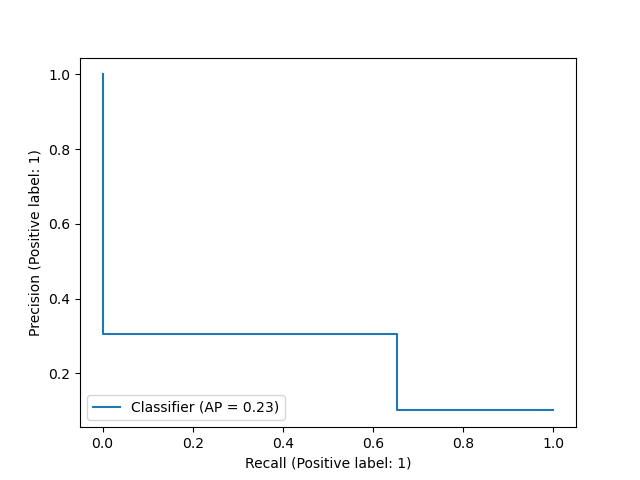
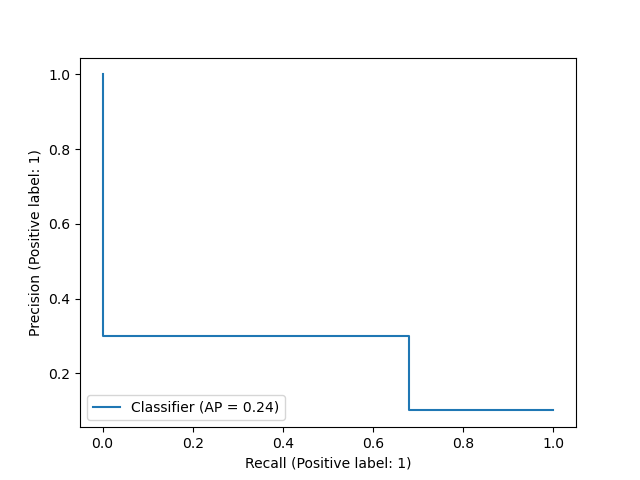
Corrected som labeling

Changed region(s): [[0.1562, 0.6875, 0.6562, 0.7188], [0.4062, 0.8438, 0.4375, 0.875]]

diff --git a/src/graph_neural_nets.py b/src/graph_neural_nets.py
@@ -3,29 +3,47 @@ import torch.nn.functional as F
 from torch.nn import Sequential, Linear, BatchNorm1d, Dropout,LeakyReLU, AvgPool1d
 from torch_geometric.nn import GINEConv, GATConv
 
-def train(model, loader, lr, weight_decay, device):
+# def train(model, loader, lr, weight_decay, device):
+#     model.train()
+#     optimizer = torch.optim.Adam(model.parameters(), lr=lr, weight_decay=weight_decay)
+#     criterion = torch.nn.CrossEntropyLoss()
+#     loss = 0
+#     total_num_instances = 0
+#     for data in loader:
+#         data = data.to(device)
+#         num_subsamplings = data.sampling_mask.shape[1]
+#         for i in range(num_subsamplings):
+#             _, out = model(data.x, data.edge_index, data.edge_attr)  # Perform a forward pass
+#             batch_loss = criterion( out[data.sampling_mask[:,i] == 1], 
+#                                     data.y[data.sampling_mask[:,i] == 1])  # Compute loss function
+#             loss += batch_loss * len(data.batch)
+#             total_num_instances += len(data.batch)
+#             optimizer.zero_grad()  # Clear gradients
+#             batch_loss.backward()  # Derive gradients
+#             optimizer.step()  # Update parameters based on gradients
+#     loss /= total_num_instances 
+#     return loss
+
+def train(model, loader, class_weights, lr, weight_decay, device):
     model.train()
     optimizer = torch.optim.Adam(model.parameters(), lr=lr, weight_decay=weight_decay)
-    criterion = torch.nn.CrossEntropyLoss()
+    criterion = torch.nn.CrossEntropyLoss(weight=torch.Tensor(class_weights).to(device))
     loss = 0
     total_num_instances = 0
     for data in loader:
         data = data.to(device)
-        num_subsamplings = data.sampling_mask.shape[1]
-        for i in range(num_subsamplings):
-            _, out = model(data.x, data.edge_index, data.edge_attr)  # Perform a forward pass
-            batch_loss = criterion( out[data.sampling_mask[:,i] == 1], 
-                                    data.y[data.sampling_mask[:,i] == 1])  # Compute loss function
-            loss += batch_loss * len(data.batch)
-            total_num_instances += len(data.batch)
-            optimizer.zero_grad()  # Clear gradients
-            batch_loss.backward()  # Derive gradients
-            optimizer.step()  # Update parameters based on gradients
+        _, out = model(data.x, data.edge_index, data.edge_attr)  # Perform a forward pass
+        batch_loss = criterion(out, data.y.T.long())  # Compute loss function
+        loss += batch_loss * len(data.batch)
+        total_num_instances += len(data.batch)
+        optimizer.zero_grad()  # Clear gradients
+        batch_loss.backward()  # Derive gradients
+        optimizer.step()  # Update parameters based on gradients
     loss /= total_num_instances 
     return loss
 
 @torch.no_grad()
-def test(model, loader, class_weights, device):
+def test(model, loader, class_weights, device, threshold):
     model.eval()
     criterion = torch.nn.CrossEntropyLoss(weight=torch.Tensor(class_weights).to(device))
     loss = 0
@@ -34,11 +52,12 @@ def test(model, loader, class_weights, device):
     true_labels = []
     for data in loader:
         data = data.to(device)
-        _, out = model(data.x, data.edge_index, data.edge_attr)  # Perform a forward pass
-        batch_loss = criterion(out, data.y.T.long())  # Compute loss function
+        _, out = model(data.x, data.edge_index, data.edge_attr)
+        batch_loss = criterion(out, data.y.T.long())
         loss += batch_loss * len(data.batch)
         total_num_instances += len(data.batch)
-        predictions.append(out.argmax(dim=1))   # Store the class with the highest probability for each data point
+        #predictions.append(out.argmax(dim=1))
+        predictions.append((out[:,1] > threshold).int())
         true_labels.append(data.y)
     pred, true = torch.cat(predictions, dim=0).cpu().numpy(), torch.cat(true_labels, dim=0).cpu().numpy()
     loss /= total_num_instances

diff --git a/som_gnn.py b/som_gnn.py
@@ -38,7 +38,7 @@ def main():
 
     # Compute homophily
     loader = DataLoader(dataset, batch_size=len(dataset))
-    for data in loader: print(homophily(data.edge_index, data.y))
+    for data in loader: print(f'Homophily: {homophily(data.edge_index, data.y)}')
 
     # Training/Test Split
     train_val_dataset, test_dataset = train_test_split(dataset, test_size=(1/10), random_state=42, shuffle=True)
@@ -58,7 +58,7 @@ def main():
     for _ in range(k):
 
         # Initialize model
-        model = GIN(in_dim=dataset.num_features, h_dim=16, out_dim=dataset.num_classes, edge_dim=dataset.num_edge_features).to(device)
+        model = GIN(in_dim=dataset.num_features, h_dim=64, out_dim=dataset.num_classes, edge_dim=dataset.num_edge_features).to(device)
         #model = GAT(in_dim=dataset.num_features, h_dim=16, out_dim=dataset.num_classes, num_heads=4).to(device)
 
         # Training/Validation Split
@@ -70,10 +70,10 @@ def main():
         train_loader = DataLoader(train_dataset, batch_size=64, shuffle=True)
         val_loader = DataLoader(val_dataset, batch_size=64, shuffle=True)
 
-        # Compute class weights of the validation set (used for computing validation loss):
+        # Compute class weights of the training set:
         class_weights = 0
         total_num_instances = 0
-        for data in val_loader:
+        for data in train_loader:
             class_weights += compute_class_weight(class_weight='balanced', classes=np.unique(data.y), y=np.array(data.y)) * len(data.y)
             total_num_instances += len(data.y)
         class_weights /= total_num_instances
@@ -82,9 +82,9 @@ def main():
         early_stopping = EarlyStopping(patience=5, delta=0.005)
 
         # Train and validate model
-        for epoch in range(50):
-            train_loss = train(model, train_loader, lr=1e-4, weight_decay=1e-4, device=device)
-            val_loss, val_pred, val_true = test(model, val_loader, class_weights, device=device)
+        for epoch in range(400):
+            train_loss = train(model, train_loader, class_weights, lr=1e-4, weight_decay=0, device=device)
+            val_loss, val_pred, val_true = test(model, val_loader, class_weights, device=device, threshold=0.9)
 
             val_mcc = matthews_corrcoef(val_true, val_pred)
             val_acc = accuracy_score(val_true, val_pred)
@@ -114,7 +114,7 @@ def main():
         recall.append(val_rec)
         roc_auc.append(val_roc_auc)
 
-    # Compute averaged metrics
+    # Compute and print averaged metrics
     mcc_avg = np.average(np.array(mcc))
     accuracy_avg = np.average(np.array(accuracy))
     jaccard_avg = np.average(np.array(jaccard))

diff --git a/src/process_input_data.py b/src/process_input_data.py
@@ -23,8 +23,10 @@ def mol_to_nx(mol_id, mol, soms):
     G = nx.Graph()
 
     # Assign each atom its molecular and atomic features and make it a node of G
-    for atom in mol.GetAtoms():
-        G.add_node( atom.GetIdx(),
+    # is_som = [(atom_idx in soms) for atom_idx in range(mol.GetNumAtoms())]
+    for atom_idx in range(mol.GetNumAtoms()):
+        atom = mol.GetAtomWithIdx(atom_idx)
+        G.add_node( atom_idx, # node identifier
                     # atom features
                     atomic_num = atom.GetAtomicNum(),
                     degree = atom.GetTotalDegree(),
@@ -51,7 +53,7 @@ def mol_to_nx(mol_id, mol, soms):
                     # the next two elements are later used to compute the labels but will of course
                     # not be used as features!
                     mol_id = int(mol_id),
-                    is_som = (atom.GetIdx() in soms))
+                    is_som = (atom_idx in soms))
     for bond in mol.GetBonds():
         G.add_edge(bond.GetBeginAtomIdx(),
                    bond.GetEndAtomIdx(),
